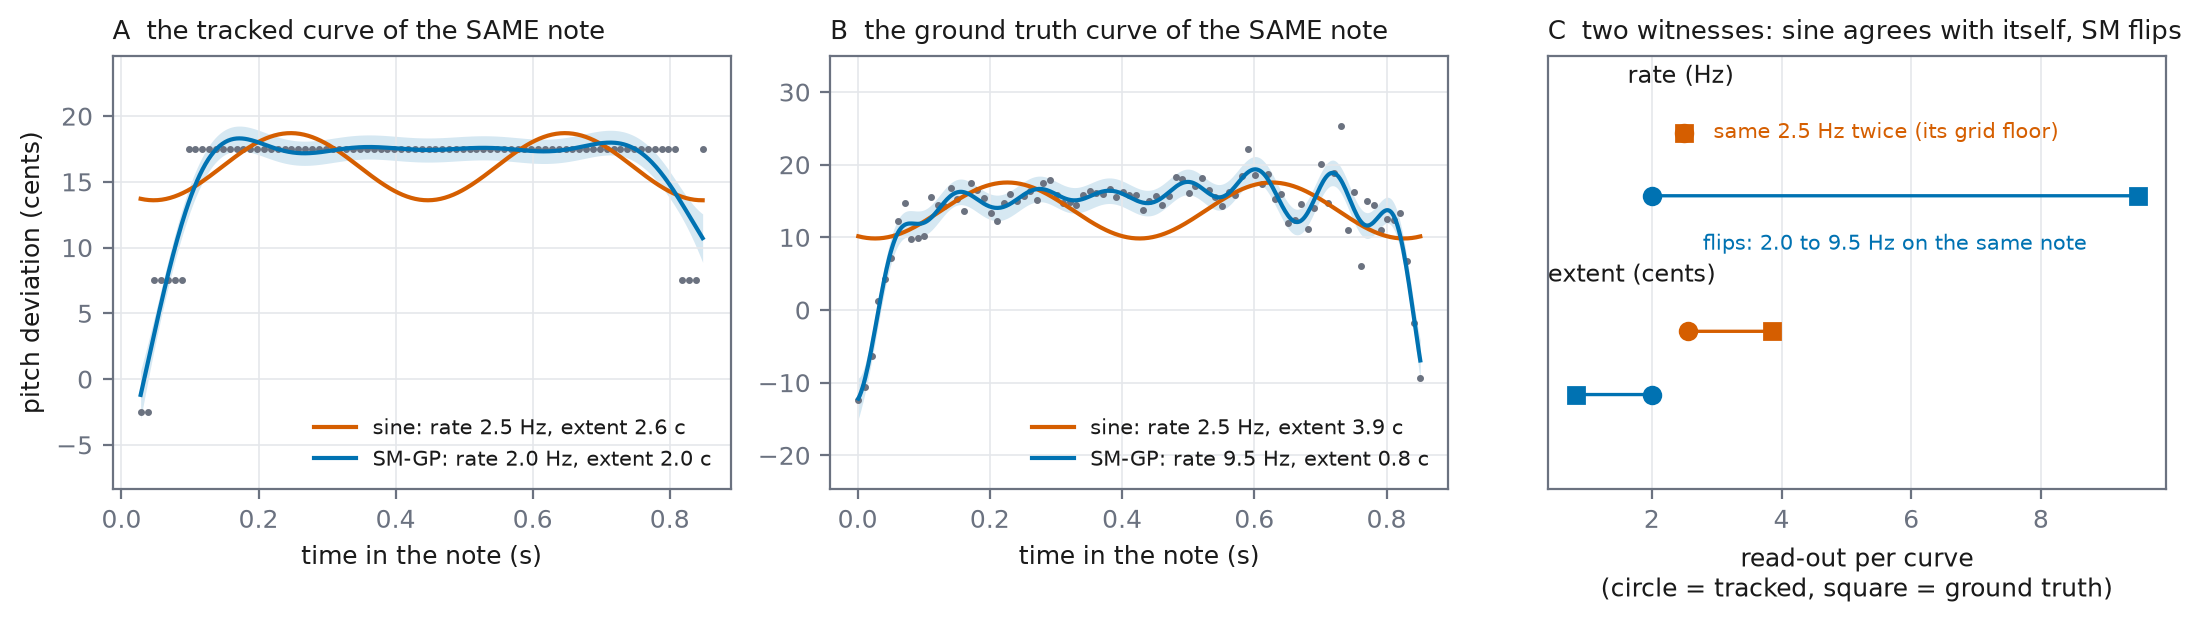
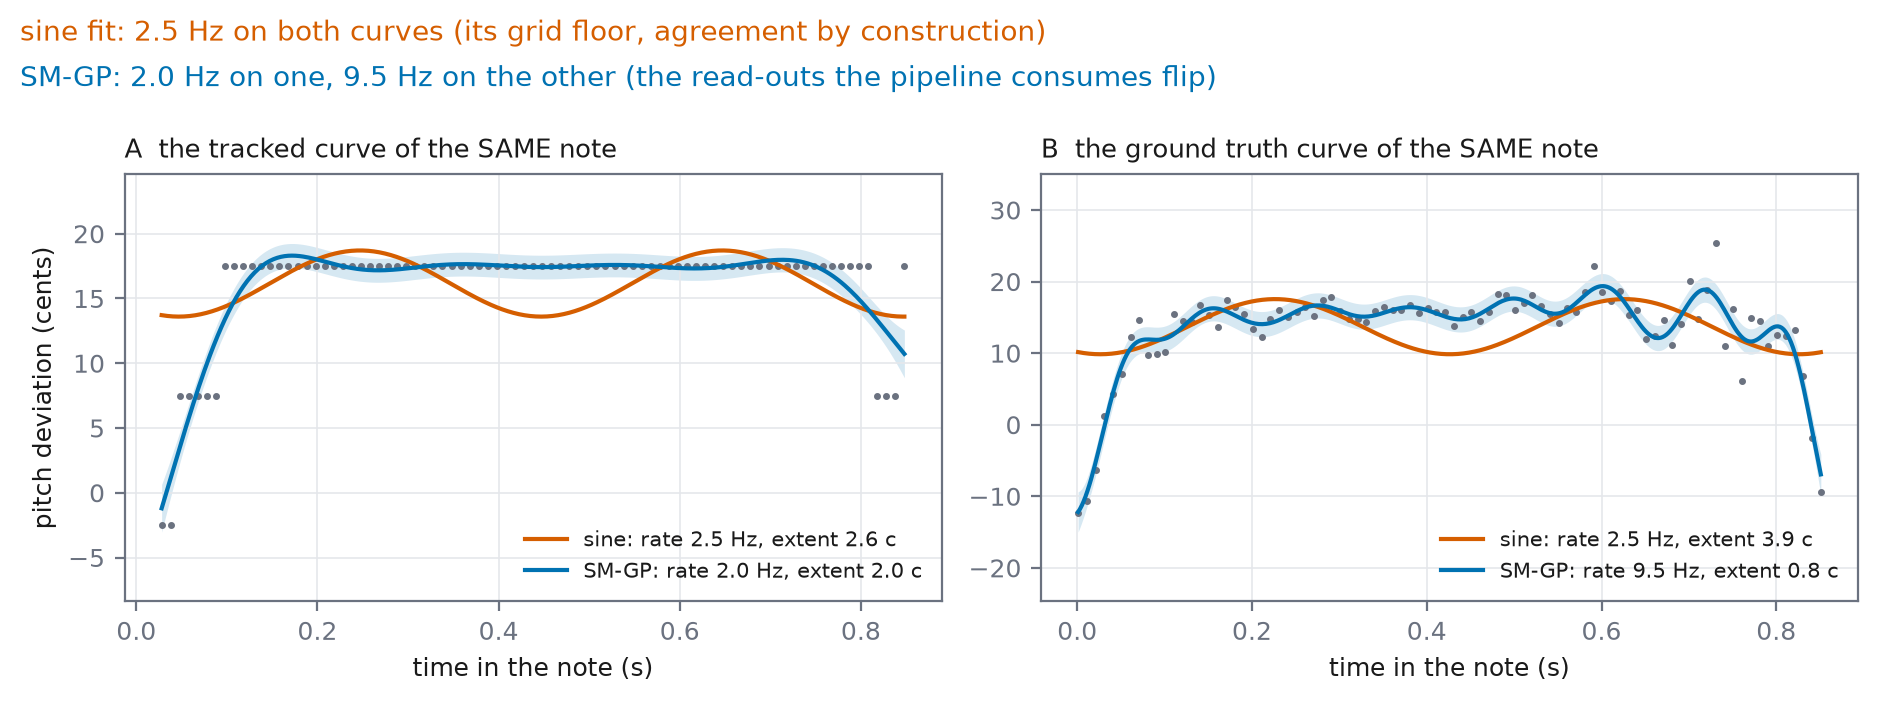
Worst-case figure: panel C dropped, two panels plus a headline
Ray: panel C re-encoded what A and B's legends already show, into an
abstract dot plot with its own marker grammar to learn. Agreed. The
figure is now two panels (the same note's two measurements) with a
two-line colored headline stating the comparison the legends
corroborate: sine 2.5 Hz twice (grid floor), SM-GP 2.0 then 9.5 Hz.
Prep's figure-reading block updated to match. Deck rebuilt, PDF copied.

diff --git a/scripts/make_sm_worstcase.py b/scripts/make_sm_worstcase.py
@@ -102,7 +102,7 @@ def main() -> None:
     for name, (t_, x_) in (("tracked", (tt, x)), ("ground truth", (ttg, xg))):
         fits[name] = (fit_vibrato_note(t_, x_), fit_sm_note(t_, x_))
 
-    fig, axes = plt.subplots(1, 3, figsize=(11.0, 3.2))
+    fig, axes = plt.subplots(1, 2, figsize=(9.4, 3.5))
     for k, (name, (t_, x_)) in enumerate(
             (("tracked", (tt, x)), ("ground truth", (ttg, xg)))):
         ax = axes[k]
@@ -127,36 +127,17 @@ def main() -> None:
                      loc="left")
         ax.legend(fontsize=7.5, loc="lower right")
 
-    ax = axes[2]
-    for j, (q, lab) in enumerate((("f", "rate (Hz)"),
-                                  ("gamma", "extent (cents)"))):
-        y0 = 2.4 - 2.2 * j
-        for name, mk in (("tracked", "o"), ("ground truth", "s")):
-            nl, sm = fits[name]
-            ax.plot(nl[q], y0 + 0.35, mk, ms=6, color=VERM)
-            ax.plot(sm[q], y0 - 0.35, mk, ms=6, color=BLUE)
-        nl_a, sm_a = fits["tracked"]
-        nl_b, sm_b = fits["ground truth"]
-        ax.annotate("", xy=(sm_b[q], y0 - 0.35), xytext=(sm_a[q], y0 - 0.35),
-                    arrowprops=dict(arrowstyle="-", color=BLUE, lw=1.2))
-        ax.annotate("", xy=(nl_b[q], y0 + 0.35), xytext=(nl_a[q], y0 + 0.35),
-                    arrowprops=dict(arrowstyle="-", color=VERM, lw=1.2))
-        ax.text(ax.get_xlim()[0], y0 + 0.9, lab, fontsize=8.5, color=INK)
     nl_a, sm_a = fits["tracked"]
     nl_b, sm_b = fits["ground truth"]
-    ax.text(max(nl_a["f"], nl_b["f"]) + 0.45, 2.4 + 0.35,
-            f"same {nl_a['f']:.1f} Hz twice (its grid floor)",
-            fontsize=7.5, color=VERM, ha="left", va="center")
-    ax.text((sm_a["f"] + sm_b["f"]) / 2, 2.4 - 0.35 - 0.42,
-            f"flips: {min(sm_a['f'], sm_b['f']):.1f} to "
-            f"{max(sm_a['f'], sm_b['f']):.1f} Hz on the same note",
-            fontsize=7.5, color=BLUE, ha="center", va="top")
-    ax.set_yticks([])
-    ax.set_ylim(-1.2, 3.6)
-    ax.set_xlabel("read-out per curve\n(circle = tracked, square = ground truth)")
-    ax.set_title("C  two witnesses: sine agrees with itself, SM flips",
-                 loc="left")
-    fig.tight_layout()
+    fig.tight_layout(rect=(0, 0, 1, 0.855))
+    fig.text(0.008, 0.985,
+             f"sine fit: {nl_a['f']:.1f} Hz on both curves "
+             "(its grid floor, agreement by construction)",
+             color=VERM, fontsize=10, ha="left", va="top")
+    fig.text(0.008, 0.92,
+             f"SM-GP: {sm_a['f']:.1f} Hz on one, {sm_b['f']:.1f} Hz on the "
+             "other (the read-outs the pipeline consumes flip)",
+             color=BLUE, fontsize=10, ha="left", va="top")
     fig.savefig(OUT, bbox_inches="tight")
     plt.close(fig)
     print("wrote", OUT)

diff --git a/docs/meeting_qa_prep.md b/docs/meeting_qa_prep.md
@@ -83,16 +83,16 @@ own registration).
 - **Worst case (frame 11).** A and B are the SAME note measured twice
   (tracked vs ground-truth curve). The SM fits the curve better in BOTH
   panels — that is expected and is NOT the test. The estimator's product
-  is not the curve; it is three numbers per note fed to the bundle. Panel
-  C is the test: does each estimator return the same numbers from both
-  measurements? Sine: 2.5 Hz twice (partly manufactured — that is its
-  grid floor, where 13–18% of barely-vibrato notes sit). SM: 2.0 vs
-  9.5 Hz. Better curve in, different numbers out — the whole two-sided
-  verdict in one picture.
+  is not the curve; it is three numbers per note fed to the bundle, and
+  those sit in the legends: sine 2.5 Hz on both curves (partly
+  manufactured — that is its grid floor, where 13–18% of barely-vibrato
+  notes sit), SM 2.0 Hz on one and 9.5 Hz on the other. The two headline
+  lines above the panels state exactly this. Better curve in, different
+  numbers out — the whole two-sided verdict in one picture.
 - **If asked "but the blue fit looks better":** "Exactly — in both
   panels, and that is the measured half of the verdict. The other half is
-  panel C: the numbers the pipeline actually consumes flip between two
-  measurements of the same note, and that instability survives
+  in the legends: the numbers the pipeline actually consumes flip between
+  two measurements of the same note, and that instability survives
   restriction to strong-vibrato notes, so it is intrinsic to the
   translation into scalars, not an artifact of weak notes or of the
   rule."
